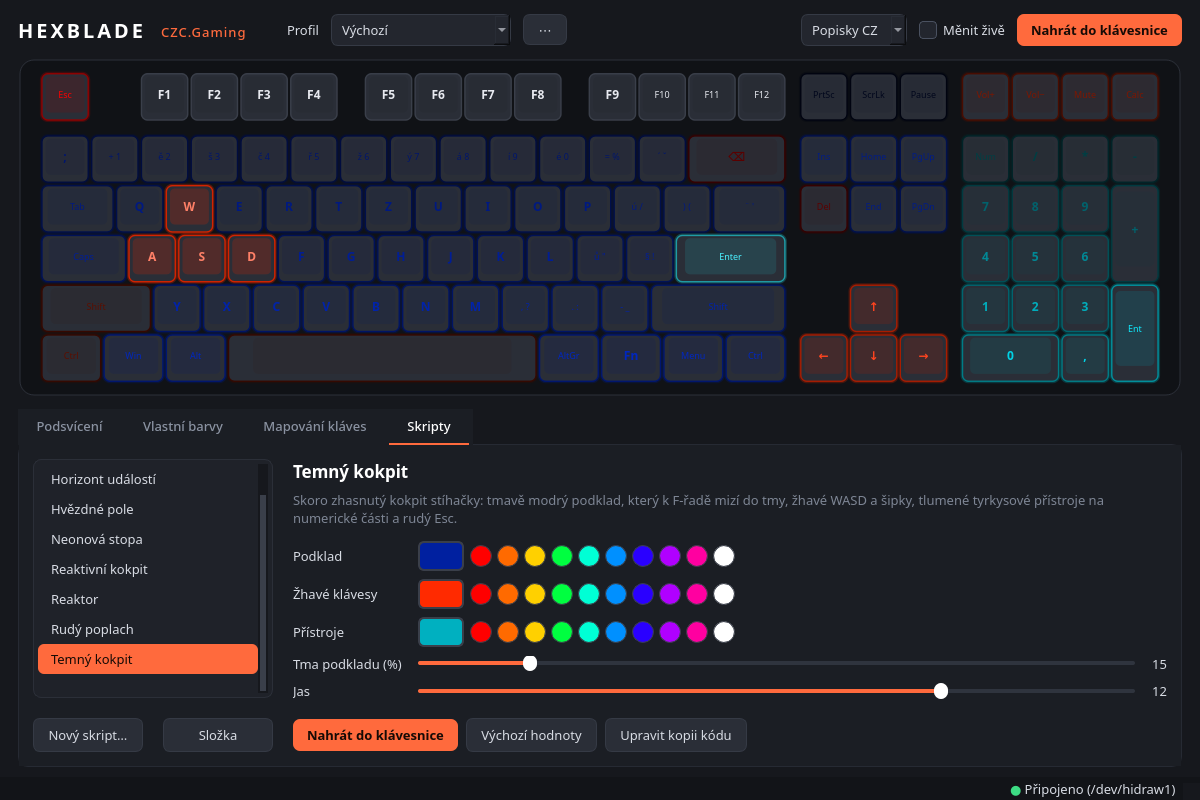
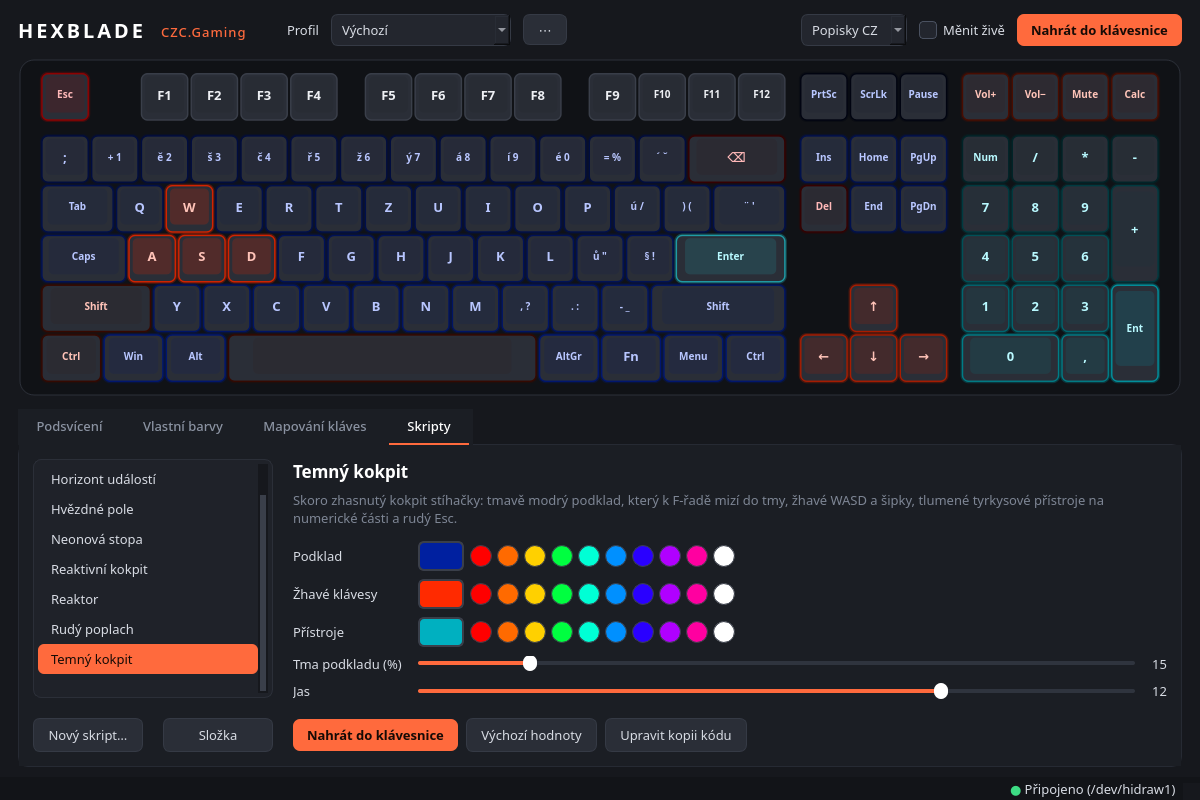
Make key legends readable on dark lighting
Legends were tinted by the LED colour, so dark designs made them almost
invisible. They are now always light, only lightly tinted by the LED hue,
and bold.

diff --git a/hexblade/gui.py b/hexblade/gui.py
@@ -195,11 +195,13 @@ class KeyboardView(QWidget):
             # legend
             label = k.cz if self.legend == "cz" else k.us
             if label:
-                txt = QColor("#e8eaf0") if not dim else QColor("#555b66")
-                if intensity > 0.02 and not dim:
-                    txt = QColor(led).lighter(170) if led.lightnessF() < 0.6 else QColor(led)
-                font.setPixelSize(max(8, int(self._unit * (0.26 if len(label) <= 2 else 0.2))))
-                font.setBold(len(label) <= 2)
+                # always light legends, only tinted by the LED hue, so they stay
+                # readable on dark colours too
+                txt = QColor("#555b66") if dim else QColor("#eef0f4")
+                if not dim and intensity > 0.02 and led.hsvSaturationF() > 0.15 and led.hsvHueF() >= 0:
+                    txt = QColor.fromHsvF(led.hsvHueF(), 0.28, 1.0)
+                font.setPixelSize(max(9, int(self._unit * (0.28 if len(label) <= 2 else 0.22))))
+                font.setBold(True)
                 p.setFont(font)
                 p.setPen(txt)
                 p.drawText(face, Qt.AlignCenter, label)
